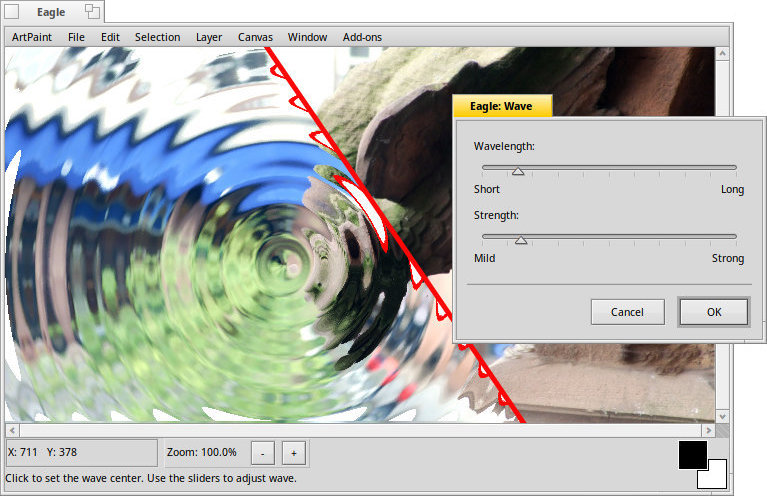
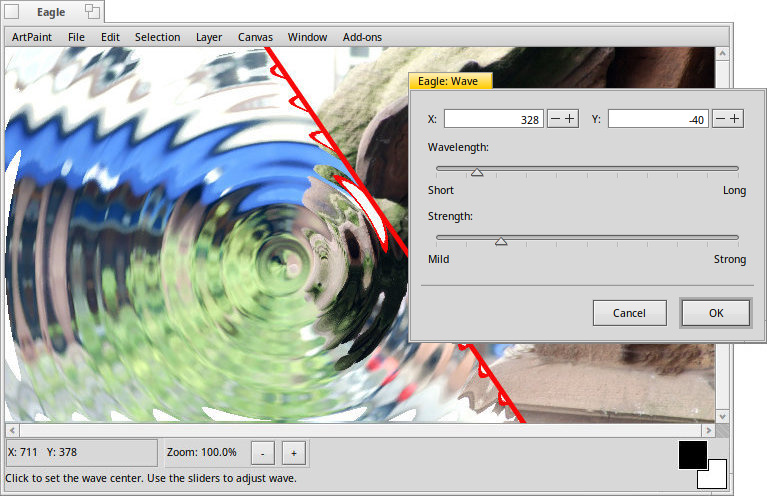
Updated documentation
* Updated changelog

* Main window:
  - Add tip that right mousebutton draws with background color

* Tools index:
  - Add info that right mousebutton draws with background color

* Fill tool:
  - Improved explanation for the "Flood fill" option

* Wave add-on: Added X/Y coordinates, updated screenshot

Changed region(s): [[0.5098, 0.121, 1.0, 0.6956]]

diff --git a/documentation/tools/fill.html b/documentation/tools/fill.html
@@ -4,7 +4,7 @@
 <html xmlns="http://www.w3.org/1999/xhtml" lang="en-US" xml:lang="en-US">
 <head>
 <!--
- * Copyright 2022
+ * Copyright 2022-2023
  * Distributed under the terms of the MIT License.
  *
  * Authors:
@@ -32,9 +32,13 @@
 
 <p>The fill tool applies the foreground color to the the object you click on.<br />
 The <span class="menu">Tolerance</span> decides if pixels on the current layer are similar enough to the color of the pixel you clicked on to be changed to the new color. A very low tolerance dyes only pixels of the exact same color. A higher tolerance will also dye shades of that color.</p>
-<p><span class="menu">Flood fill</span> only colors objects that are connected, otherwise all similar pixels on the current layer get changed.</p>
+
+<p><span class="menu">Flood fill</span> only colors objects that are connected, sort of like a fill version of the magic wand selection tool.<br />
+Without <span class="menu">Flood fill</span>, all similar pixels on the current layer get changed, which is similar to other apps' "Replace color" tool.</p>
+
 <p>You can <span class="menu">Enable gradient</span> and drag and drop two colors to the left and right side of the gradient bar at the bottom.<br />
 The left color of the gradient begins where you click in the canvas, then you drag the mouse to where the gradient shall end with its right color, and release the mouse button.</p>
+
 <p>If you <span class="menu">Enable preview</span> you see the gradient live as you click and move the mouse.</p>
 
 <p>The quick key to choose the fill tool is <span class="key">I</span>.</p>

diff --git a/documentation/main_window.html b/documentation/main_window.html
@@ -4,7 +4,7 @@
 <html xmlns="http://www.w3.org/1999/xhtml" lang="en-US" xml:lang="en-US">
 <head>
 <!--
- * Copyright 2022
+ * Copyright 2022-2023
  * Distributed under the terms of the MIT License.
  *
  * Authors:
@@ -54,7 +54,9 @@
 
 <li><p>Holding <span class="key">SHIFT</span> has some tools snap to certain settings, like 22,5° angles for the <a href="./tools/straight-line.html">Straight Line</a> tool, or keep a 1:1 aspect ratio for the <a href="./tools/rectangle.html">Rectangle</a> or <a href="./tools/ellipse.html">Ellipse</a> and related tools to create a square or circle. <span class="key">ALT</span> switches those tools to work from 'corner-to-corner' to 'center-to-corner' mode. Better read the tools pages of this guide if you don't want to miss the details.</p></li>
 
-<li><p>Holding <span class="key">CTRL</span> will temporarily switch to the <a href="./tools/color-picker.html">Color Picker</a> to select a new the foreground color and then changes back to the previously used tool.</p></li>
+<li><p>Using the right-mouse button with drawing tools, paints with the background colour.</li></p>
+
+<li><p>Holding <span class="key">CTRL</span> will temporarily switch to the <a href="./tools/color-picker.html">Color Picker</a> to select a new the foreground color (background color with right mouse-button) and then changes back to the previously used tool.</p></li>
 
 <li><p><span class="key">ALT</span>&#160;<span class="key">TAB</span> will hide/show all but the main window. Handy if you want to paint on the whole, unobscured canvas.</p></li>
 

diff --git a/documentation/add-ons/wave.html b/documentation/add-ons/wave.html
@@ -4,7 +4,7 @@
 <html xmlns="http://www.w3.org/1999/xhtml" lang="en-US" xml:lang="en-US">
 <head>
 <!--
- * Copyright 2022
+ * Copyright 2022-2023
  * Distributed under the terms of the MIT License.
  *
  * Authors:
@@ -30,7 +30,7 @@
 <img src="./images/wave.jpg" style="border:none;padding-right:15px" alt="Add-on: Wave" />
 </div>
 
-<p>A click in the canvas sets the center of the wave. You can change the <span class="menu">Wavelength</span> and the <span class="menu">Strength</span>.</p>
+<p>A click into the canvas sets the center of the wave. If it needs to be exact, you can enter its <span class="menu">X/Y</span> coordinates. Use the sliders to change <span class="menu">Wavelength</span> and <span class="menu">Strength</span>.</p>
 
 <hr />
 <div align="center">

diff --git a/documentation/tools.html b/documentation/tools.html
@@ -4,7 +4,7 @@
 <html xmlns="http://www.w3.org/1999/xhtml" lang="en-US" xml:lang="en-US">
 <head>
 <!--
- * Copyright 2022
+ * Copyright 2022-2023
  * Distributed under the terms of the MIT License.
  *
  * Authors:
@@ -28,6 +28,8 @@
 
 <p>In the following pages you find descriptions of all of ArtPaint's tools and their setup.<br />
 The letter after the tool name is its 'quick key' that selects the tool while the canvas window is active.</p>
+
+<p>For all drawing tools, using the right mousebutton will paint with the background color.</p>
 
 <table align="center" style="border: 1px dotted black; border-collapse: separate; border-spacing: 15px 0px; background-color: floralwhite" summary="Tools index">
 
